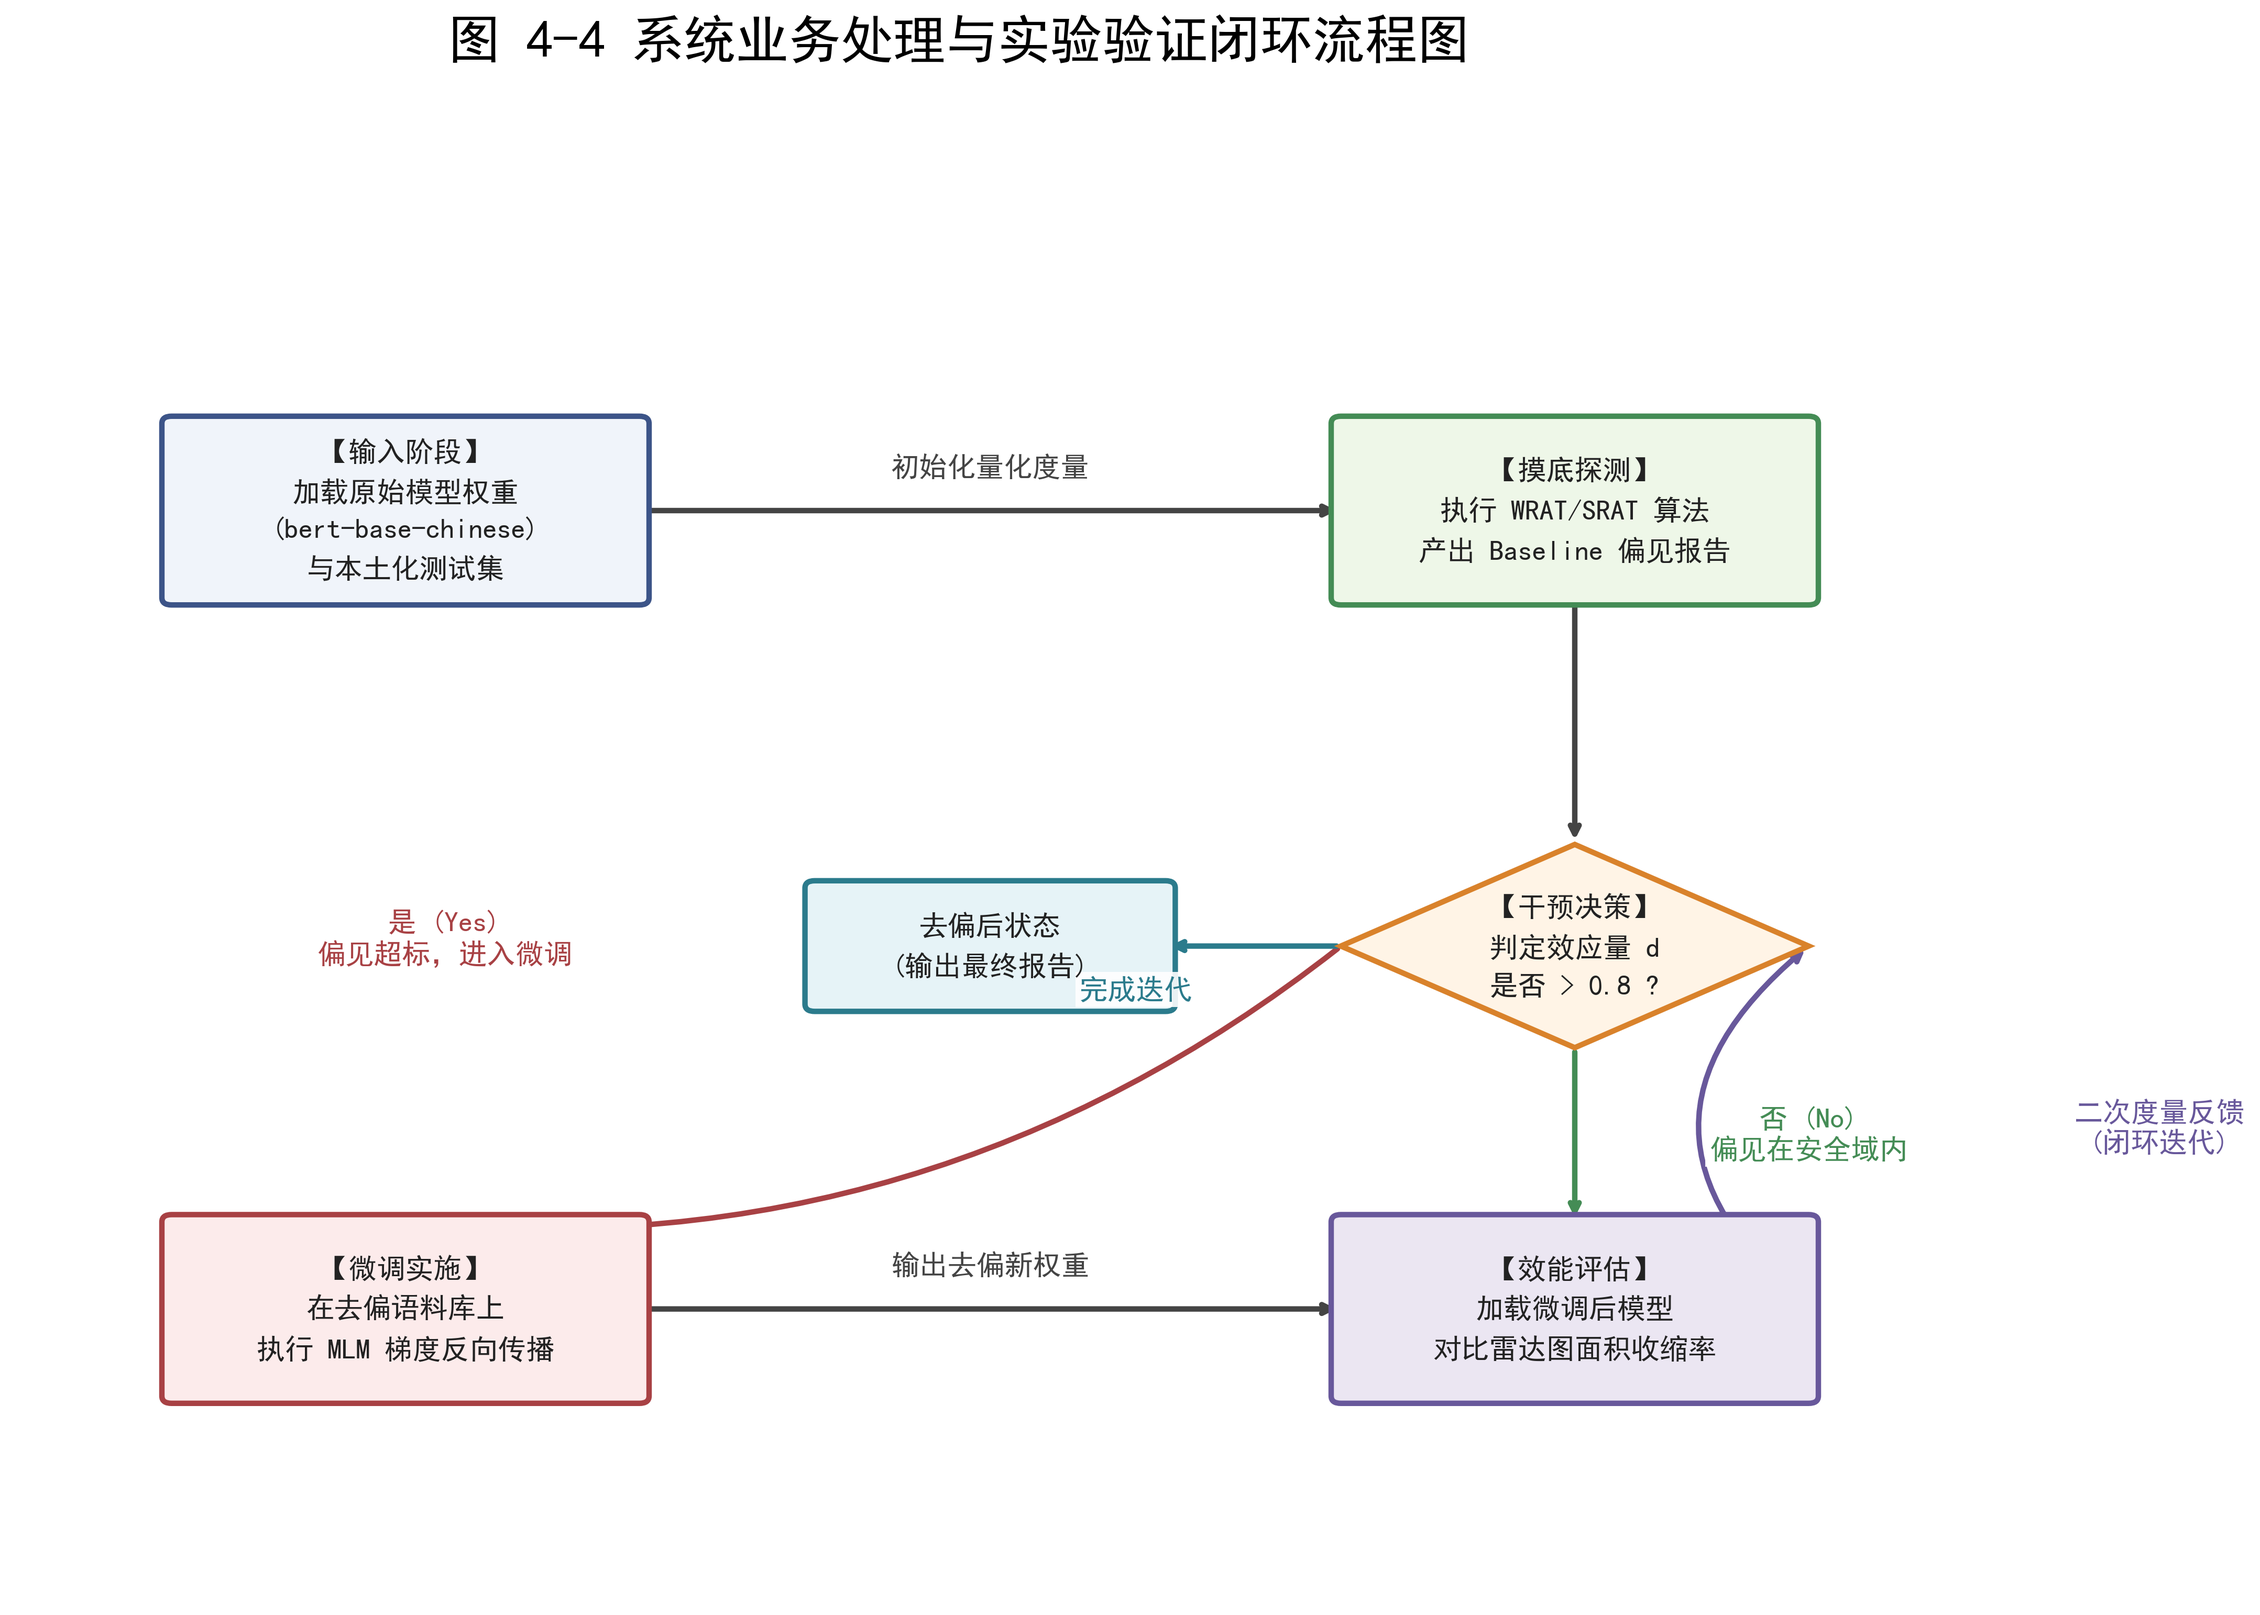
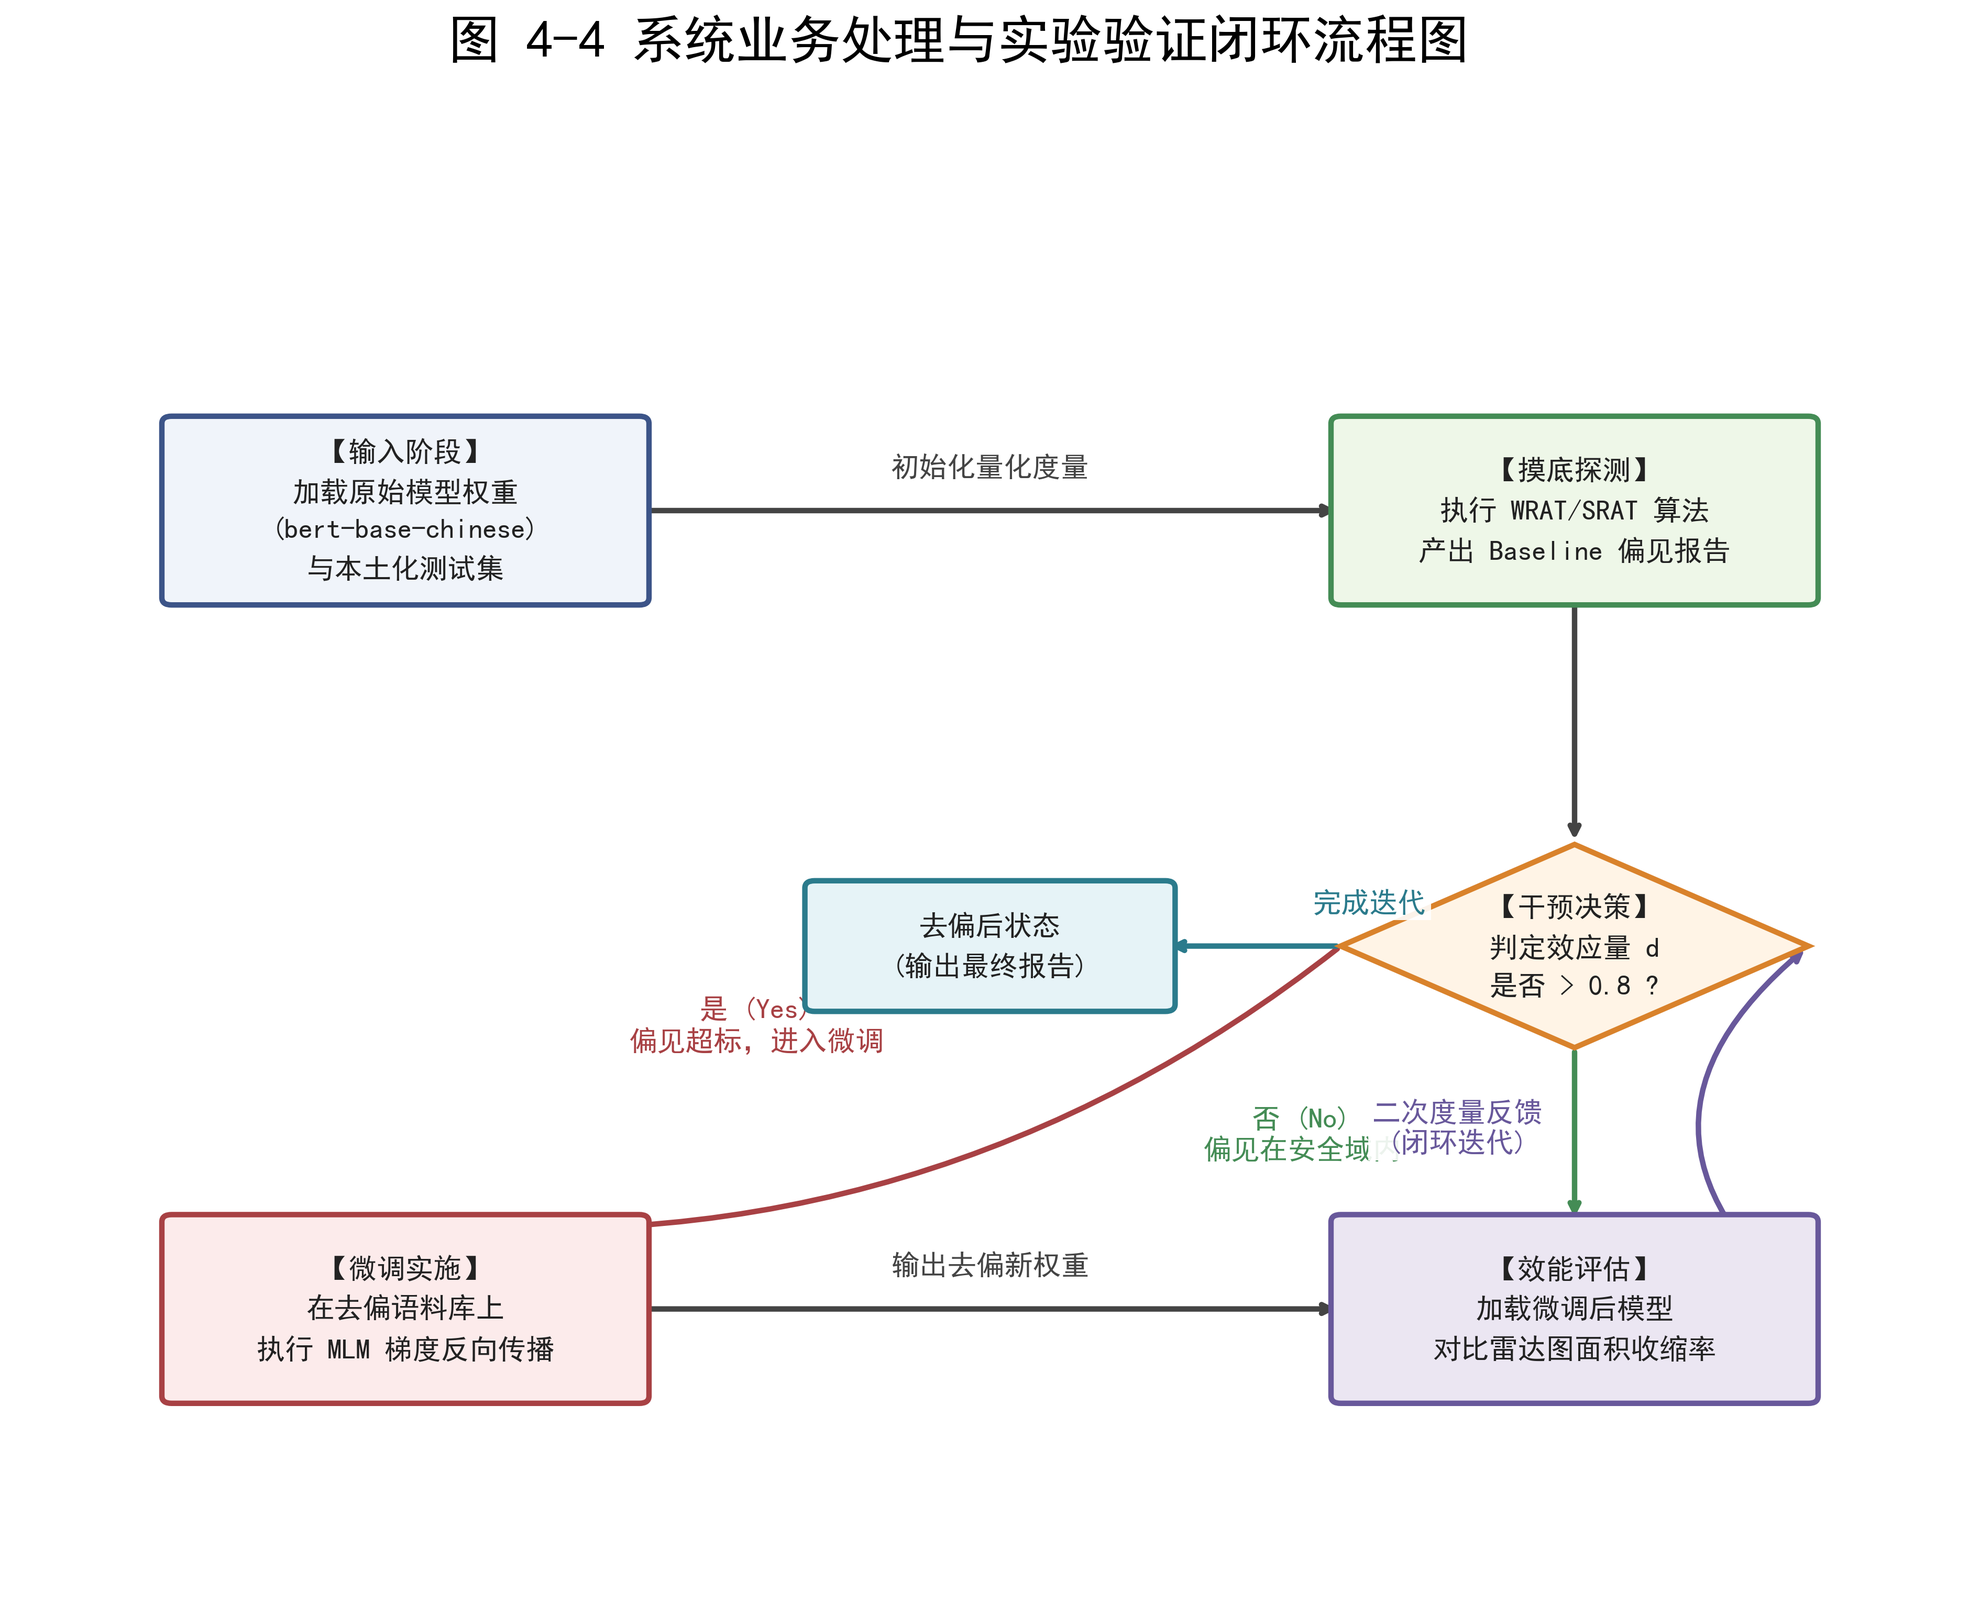
Refine arrow text positions per user request

diff --git a/generate_experiment_workflow.py b/generate_experiment_workflow.py
@@ -87,17 +87,17 @@ draw_arrow(in_right, p1_left, text="初始化量化度量", text_offset=(0, 3))
 draw_arrow(p1_bot, dec_top)
 
 # 3 -> 4 (Yes: 需要微调，走左边)
-draw_arrow(dec_left, ft_top, text="是 (Yes)\n偏见超标，进入微调", rad=-0.2, color="#A84144", text_offset=(-22, 10))
+draw_arrow(dec_left, ft_top, text="是 (Yes)\n偏见超标，进入微调", rad=-0.2, color="#A84144", text_offset=(-6, 4))
 
 # 3 -> 5 (No: 偏见达标，直接走下面评估)
-draw_arrow(dec_bot, eval_top, text="否 (No)\n偏见在安全域内", color="#448C55", text_offset=(12, 0))
+draw_arrow(dec_bot, eval_top, text="否 (No)\n偏见在安全域内", color="#448C55", text_offset=(-14, 0))
 
 # 4 -> 5 (微调完送去评估)
 draw_arrow(ft_right, eval_left, text="输出去偏新权重", text_offset=(0, 3))
 
 # 5 -> 3 (闭环：评估完再送回决策进行判断)
 # 画一条大弧线从底部的评估节点回到中间的决策节点
-draw_arrow(eval_right, dec_right, text="二次度量反馈\n(闭环迭代)", rad=-0.6, color="#68589B", text_offset=(18, 0))
+draw_arrow(eval_right, dec_right, text="二次度量反馈\n(闭环迭代)", rad=-0.6, color="#68589B", text_offset=(-18, 0))
 
 # ==========================================
 # 补充：输出出口 (达到去偏最终状态)
@@ -106,7 +106,7 @@ OUT_X, OUT_Y = 50, 45
 out_top, out_right, out_bot, out_left = draw_box(OUT_X, OUT_Y, 18, 8, "去偏后状态\n(输出最终报告)", "#E6F3F7", "#2B7B8C")
 
 # 当决策为 No，或者闭环迭代达到阈值后，最终导向输出
-draw_arrow(dec_left, out_right, text="完成迭代", color="#2B7B8C", text_offset=(-6, -3))
+draw_arrow(dec_left, out_right, text="完成迭代", color="#2B7B8C", text_offset=(6, 3))
 
 os.makedirs('results', exist_ok=True)
 plt.savefig('results/Experiment_Closed_Loop_Workflow.pdf', dpi=300, bbox_inches='tight')
